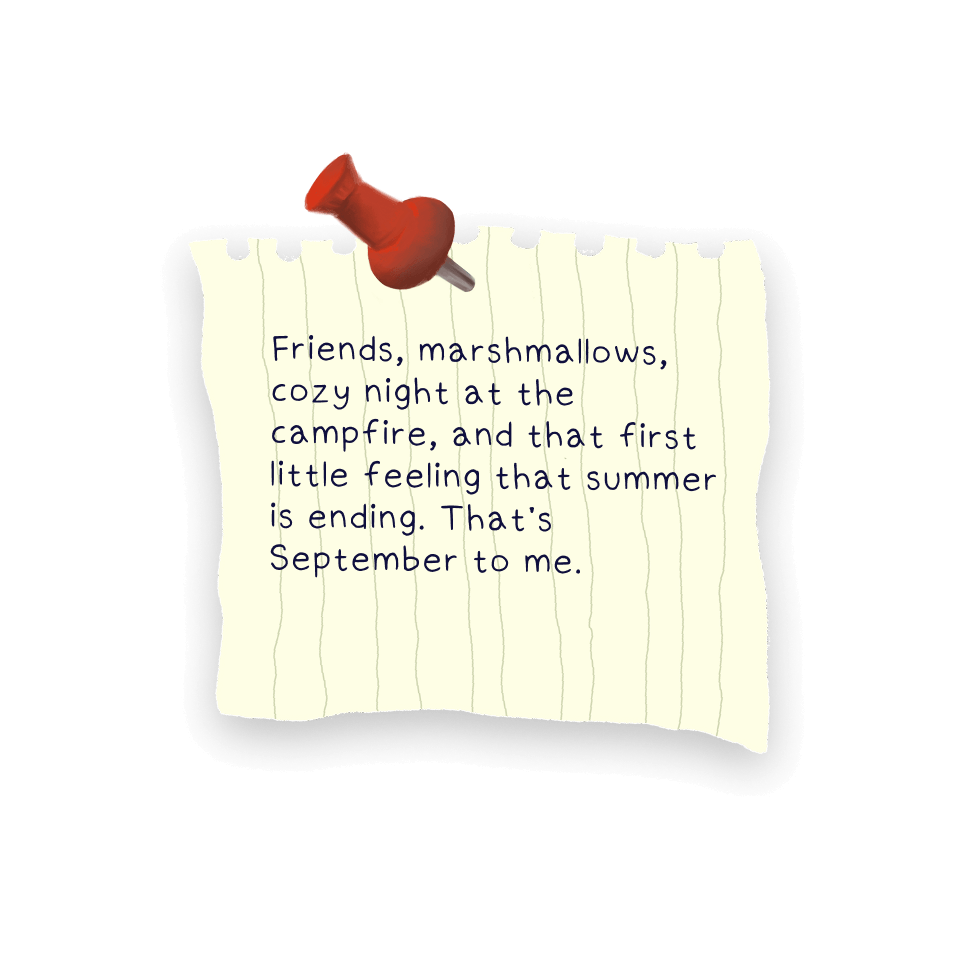
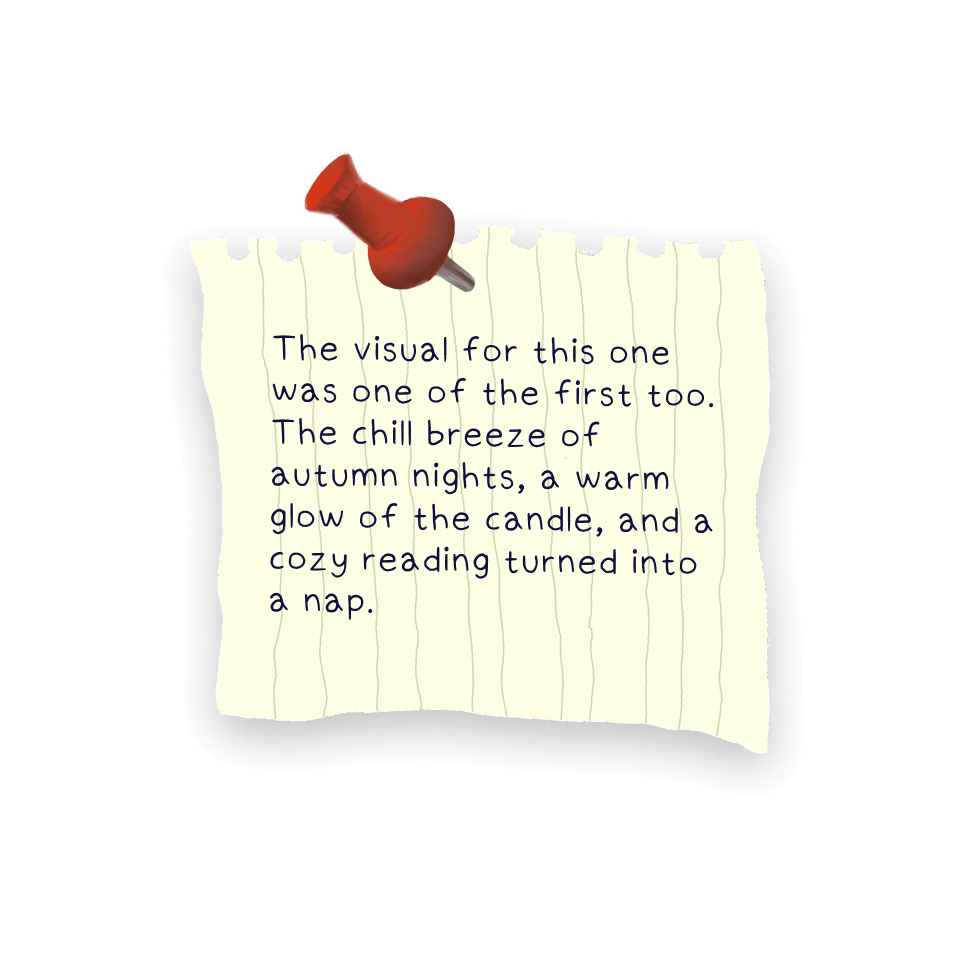
updated oblor

Changed region(s): [[0.2801, 0.3388, 0.7469, 0.6468]]

diff --git a/oblor/intro.css b/oblor/intro.css
@@ -47,6 +47,151 @@ input {
   font: inherit;
 }
 
+
+/* ============================================================
+   MAIN SITE MENU — INTRO PAGE ONLY
+   Mirrors the portfolio page menu, but uses ../image/* because
+   this file lives inside /oblor/.
+   ============================================================ */
+.intro-menu-toggle {
+  display: none;
+}
+
+.intro-menu-button {
+  position: fixed;
+  top: 20px;
+  right: 2%;
+  width: 150px;
+  height: 150px;
+  cursor: pointer;
+  z-index: 9002;
+}
+
+.intro-menu-button img {
+  width: 100%;
+  height: 100%;
+  object-fit: contain;
+  display: block;
+  transition: transform 0.3s;
+}
+
+.intro-menu-overlay {
+  position: fixed;
+  inset: 0;
+  background-color: rgba(0, 0, 0, 0);
+  z-index: 9000;
+  pointer-events: none;
+  transition: background-color 0.5s ease;
+}
+
+.intro-menu-toggle:checked ~ .intro-menu-overlay {
+  background-color: rgba(0, 0, 0, 0.5);
+  pointer-events: all;
+}
+
+.intro-menu-item {
+  position: fixed;
+  transform: scale(0) rotate(0);
+  opacity: 0;
+  transition:
+    transform 0.5s ease,
+    opacity 0.5s ease;
+  z-index: 9001;
+  pointer-events: none;
+}
+
+.intro-menu-item img {
+  width: 380px;
+  height: 380px;
+  object-fit: contain;
+  display: block;
+  cursor: pointer;
+  transition: transform 0.3s;
+}
+
+.intro-menu-home {
+  top: 50vh;
+  left: 40vw;
+}
+
+.intro-menu-about {
+  top: 30vh;
+  left: 15vw;
+}
+
+.intro-menu-portfolio {
+  top: 5vh;
+  left: 35vw;
+}
+
+.intro-menu-contact {
+  top: 20vh;
+  left: 55vw;
+}
+
+.intro-menu-toggle:checked ~ .intro-menu-item {
+  opacity: 1;
+  transform: scale(1);
+  pointer-events: auto;
+}
+
+@media (hover: hover) {
+  .intro-menu-button img:hover {
+    transform: rotate(40deg) scale(1.2);
+  }
+
+  .intro-menu-item img:hover {
+    transform: rotate(10deg) scale(1.1);
+  }
+}
+
+@media (hover: none) {
+  .intro-menu-toggle:checked ~ .intro-menu-button img {
+    transform: rotate(40deg) scale(1.2);
+  }
+}
+
+@media (max-width: 768px) {
+  .intro-menu-button {
+    top: 3%;
+    right: 7%;
+    width: 16vw;
+    height: 16vw;
+    max-width: 70px;
+    max-height: 70px;
+    min-width: 50px;
+    min-height: 50px;
+  }
+
+  .intro-menu-item img {
+    width: 53vw;
+    aspect-ratio: 9 / 10;
+    height: auto;
+    max-width: 380px;
+    max-height: 422px;
+  }
+
+  .intro-menu-portfolio {
+    top: 11vh;
+    left: 40vw;
+  }
+
+  .intro-menu-about {
+    top: 26vh;
+    left: 4vw;
+  }
+
+  .intro-menu-contact {
+    top: 35vh;
+    left: 43vw;
+  }
+
+  .intro-menu-home {
+    top: 53vh;
+    left: 22vw;
+  }
+}
+
 /*
   FULL VIEWPORT, NO FRAME.
   1920x1080 remains the design coordinate system, but the whole composition
@@ -262,48 +407,18 @@ input {
   animation: xp-spinner-fade 0.8s linear infinite;
 }
 
-.xp-spinner span:nth-child(1) {
-  transform: rotate(0deg);
-  animation-delay: -0.7s;
-}
-.xp-spinner span:nth-child(2) {
-  transform: rotate(45deg);
-  animation-delay: -0.6s;
-}
-.xp-spinner span:nth-child(3) {
-  transform: rotate(90deg);
-  animation-delay: -0.5s;
-}
-.xp-spinner span:nth-child(4) {
-  transform: rotate(135deg);
-  animation-delay: -0.4s;
-}
-.xp-spinner span:nth-child(5) {
-  transform: rotate(180deg);
-  animation-delay: -0.3s;
-}
-.xp-spinner span:nth-child(6) {
-  transform: rotate(225deg);
-  animation-delay: -0.2s;
-}
-.xp-spinner span:nth-child(7) {
-  transform: rotate(270deg);
-  animation-delay: -0.1s;
-}
-.xp-spinner span:nth-child(8) {
-  transform: rotate(315deg);
-  animation-delay: 0s;
-}
+.xp-spinner span:nth-child(1) { transform: rotate(0deg); animation-delay: -0.70s; }
+.xp-spinner span:nth-child(2) { transform: rotate(45deg); animation-delay: -0.60s; }
+.xp-spinner span:nth-child(3) { transform: rotate(90deg); animation-delay: -0.50s; }
+.xp-spinner span:nth-child(4) { transform: rotate(135deg); animation-delay: -0.40s; }
+.xp-spinner span:nth-child(5) { transform: rotate(180deg); animation-delay: -0.30s; }
+.xp-spinner span:nth-child(6) { transform: rotate(225deg); animation-delay: -0.20s; }
+.xp-spinner span:nth-child(7) { transform: rotate(270deg); animation-delay: -0.10s; }
+.xp-spinner span:nth-child(8) { transform: rotate(315deg); animation-delay: 0s; }
 
 @keyframes xp-spinner-fade {
-  0%,
-  18% {
-    opacity: 1;
-  }
-  75%,
-  100% {
-    opacity: 0.12;
-  }
+  0%, 18% { opacity: 1; }
+  75%, 100% { opacity: 0.12; }
 }
 
 /* ============================================================
@@ -375,7 +490,8 @@ input {
   z-index: 3;
   pointer-events: none;
   opacity: 0;
-  filter: drop-shadow(0 0 8px rgba(255, 238, 148, 0.95))
+  filter:
+    drop-shadow(0 0 8px rgba(255, 238, 148, 0.95))
     drop-shadow(0 0 18px rgba(255, 234, 118, 0.72));
 }
 
@@ -450,7 +566,8 @@ input {
 
 .floating-cd.is-dragging {
   cursor: grabbing;
-  filter: drop-shadow(0 9px 12px rgba(0, 0, 0, 0.4))
+  filter:
+    drop-shadow(0 9px 12px rgba(0, 0, 0, 0.4))
     drop-shadow(0 0 7px rgba(255, 239, 153, 0.35));
 }
 
@@ -482,6 +599,7 @@ input {
   opacity: 1;
 }
 
+
 /* ============================================================
    RETURNING-VISITOR SKIP BUTTON
    Only shown by intro.js after this browser has completed the
@@ -490,9 +608,9 @@ input {
    ============================================================ */
 .skip-intro-button {
   position: fixed;
-  top: 18px;
-  right: 18px;
-  z-index: 12000;
+  left: max(18px, env(safe-area-inset-left));
+  bottom: max(18px, env(safe-area-inset-bottom));
+  z-index: 8000;
   margin: 0;
   padding: 7px 9px 6px;
   border: 1px solid rgba(255, 255, 255, 0.18);
@@ -525,7 +643,5 @@ input {
 }
 
 @keyframes skip-intro-appear {
-  to {
-    opacity: 1;
-  }
+  to { opacity: 1; }
 }

diff --git a/oblor/intro.html b/oblor/intro.html
@@ -2,14 +2,30 @@
 <html lang="en">
   <head>
     <meta charset="UTF-8" />
-    <meta
-      name="viewport"
-      content="width=device-width, initial-scale=1.0, viewport-fit=cover"
-    />
+    <meta name="viewport" content="width=device-width, initial-scale=1.0, viewport-fit=cover" />
     <title>OBLOR — Insert Disc</title>
     <link rel="stylesheet" href="intro.css" />
   </head>
   <body>
+    <!-- Main site menu: intentionally only present on intro.html. -->
+    <input type="checkbox" id="introMenuToggle" class="intro-menu-toggle" />
+    <label for="introMenuToggle" class="intro-menu-button" aria-label="Open site menu">
+      <img src="../image/menu2.png" alt="Menu" draggable="false" />
+    </label>
+    <div class="intro-menu-overlay" aria-hidden="true"></div>
+    <div class="intro-menu-item intro-menu-home">
+      <a href="../index.html"><img src="../image/home.png" alt="Home" draggable="false" /></a>
+    </div>
+    <div class="intro-menu-item intro-menu-about">
+      <a href="../aboutme.html"><img src="../image/about.png" alt="About" draggable="false" /></a>
+    </div>
+    <div class="intro-menu-item intro-menu-portfolio">
+      <a href="../portf.html"><img src="../image/portfolio.png" alt="Portfolio" draggable="false" /></a>
+    </div>
+    <div class="intro-menu-item intro-menu-contact">
+      <a href="../contactme.html"><img src="../image/contact.png" alt="Contact" draggable="false" /></a>
+    </div>
+
     <!--
       SEPARATE OBLOR INTRO PAGE.
       This page owns only the room / passcode / CD interaction.
@@ -61,11 +77,7 @@
                 maxlength="24"
                 aria-describedby="passcodeError"
               />
-              <span
-                id="passcodeMask"
-                class="passcode-mask"
-                aria-hidden="true"
-              ></span>
+              <span id="passcodeMask" class="passcode-mask" aria-hidden="true"></span>
             </label>
 
             <p id="passcodeError" class="passcode-error" aria-live="polite">
@@ -73,14 +85,9 @@
             </p>
           </div>
 
-          <div
-            id="loadingSpinner"
-            class="xp-spinner"
-            aria-label="Loading"
-            hidden
-          >
-            <span></span><span></span><span></span><span></span> <span></span
-            ><span></span><span></span><span></span>
+          <div id="loadingSpinner" class="xp-spinner" aria-label="Loading" hidden>
+            <span></span><span></span><span></span><span></span>
+            <span></span><span></span><span></span><span></span>
           </div>
         </form>
       </section>

diff --git a/portf.html b/portf.html
@@ -633,6 +633,12 @@
         document.querySelectorAll(".portfolio-item.project").forEach((item) => {
           item.addEventListener("click", () => {
             const projectId = item.dataset.project;
+
+            if (projectId === "oblor") {
+              window.location.href = "oblor/intro.html";
+              return;
+            }
+
             const project = PROJECTS[projectId];
             if (!project) return;
 
